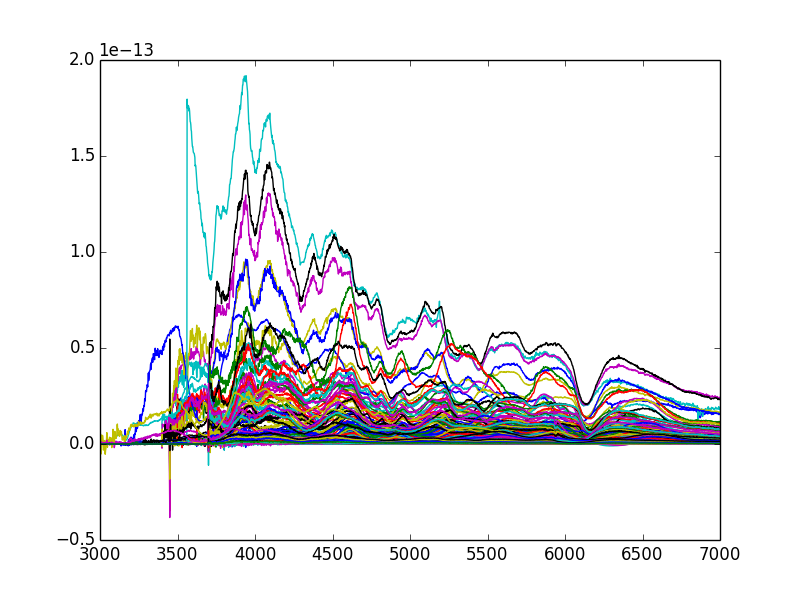
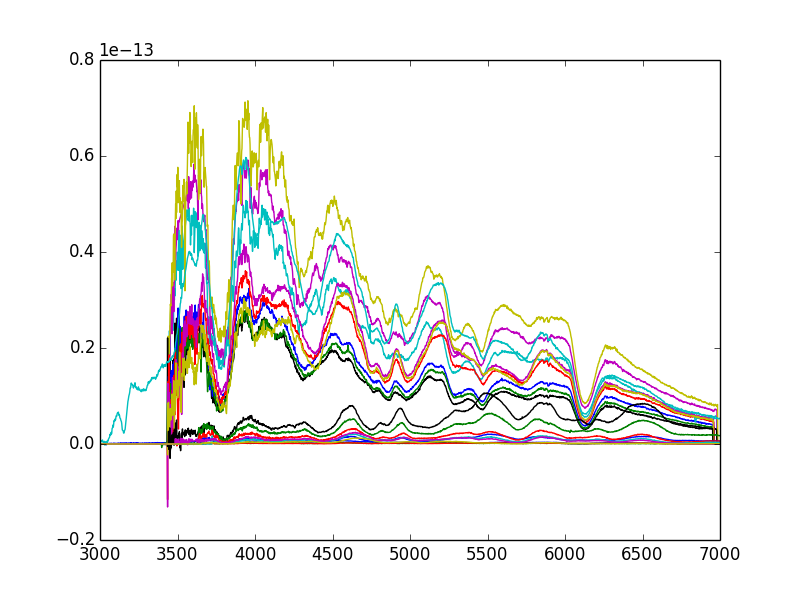
current version

diff --git a/personal/Yinghe/Week 5/prep.py b/personal/Yinghe/Week 5/prep.py
@@ -8,6 +8,8 @@ from astroquery.irsa_dust import IrsaDust
 import numpy as np
 import matplotlib.pyplot as plt
 import scipy.interpolate as inter
+from math import floor, ceil
+import sqlite3 as sq3
 
 
 def fm_unred(wave, flux, ebv, *args, **kwargs):
@@ -204,78 +206,6 @@ def fm_unred(wave, flux, ebv, *args, **kwargs):
         ExtCurve = curve - R_V
         return flux, ExtCurve
 
-
-#list of files
-spectra_files = glob.glob ('../../../data/cfa/*/*.flm')
-
-#holds spectra data (wavelength,flux,weight)
-spectra_data = []
-#holds file pathname
-file_path = []
-junk_data = []
-
-#number of spectra to modify
-num = 20
-
-#get data, pathnames
-for i in range(num):
-	try:
-        	spectra_data.append(np.loadtxt(spectra_files[i]))
-        	file_path.append(spectra_files[i][14:-4])
-		#print file_path
-             
-	except ValueError:
-		junk_data.append(spectra_files)
-
-#update num to number of good spectra files
-num = len(spectra_data)
-
-#table containing sn names, redshifts, etc.
-sn_parameters = np.genfromtxt('../../../data/cfa/cfasnIa_param.dat',dtype = None)
-
-#holds sn name
-sn = []
-#holds redshift value
-z = []
-
-#get relevent parameters needed for calculations
-for i in range(len(sn_parameters)):
-	sn.append(sn_parameters[i][0])
-	z.append(sn_parameters[i][1])
-
-"""
-NOTE:
-Use NED
-"""
-#deredden and deredshift the spectra
-for i in range(num):#go through selected spectra data
-	for j in range(len(sn)):#go through list of SN parameters
-		if sn[j] in file_path[i]:#SN with parameter matches the path
-			print "looking at SN",sn[j]
-			ext = IrsaDust.get_extinction_table("SN%s"%sn[j])
-			print ext
-			b = 0
-			v = 0
-			for k in range(len(ext)):
-				print "looking at",ext[k][0]
-				if "B" in ext[k][0]:
-					print "found b:",ext[k][3]
-					b = ext[k][3]
-				if "V" in ext[k][0]:
-					print "found v:",ext[k][3]
-					v = ext[k][3]
-				
-			print "\n",sn[j]			
-			print "starting flux:\n",spectra_data[i][:,1]
-			print "b-v value:",b,v
-			spectra_data[i][:,1] = fm_unred(spectra_data[i][:,0],spectra_data[i][:,1],b-v,R_V=3.1)
-			print "de-reddened flux:\n",spectra_data[i][:,1]
-			print "starting wavelength:\n",spectra_data[i][:,0]
-			spectra_data[i][:,0] /= (1+z[j])
-			print "z:",z[j]
-			print "de-red-shifted wavelength:\n",spectra_data[i][:,0]	
-
-
 # data interpolation
 # pixel size: every 2 As (subject to change)
 
@@ -304,16 +234,86 @@ def Interpo(spectra) :
     #newcol = Column(fitted_flux,name = 'Flux')  
     #new.add_column(newcol,index = None)
     return new
-    
-overall = []
+
+
+#list of files
+spectra_files = glob.glob ('../../../data/cfa/*/*.flm')
+
+#holds spectra data (wavelength,flux,weight)
+spectra_data = []
+#holds file pathname
+file_path = []
+junk_data = []
+
+#number of spectra to modify
+num = 2
+
+#get data, pathnames
 for i in range(num):
-    newdata = Interpo(spectra_data[i])
+	try:
+        	spectra_data.append(np.loadtxt(spectra_files[i]))
+        	file_path.append(spectra_files[i][14:-4])
+		#print file_path
+             
+	except ValueError:
+		junk_data.append(spectra_files)
+
+#update num to number of good spectra files
+num = len(spectra_data)
+
+#table containing sn names, redshifts, etc.
+sn_parameters = np.genfromtxt('../../../data/cfa/cfasnIa_param.dat',dtype = None)
+
+#holds sn name
+sn = []
+#holds redshift value
+z = []
+
+overall = []
+
+#get relevent parameters needed for calculations
+for i in range(len(sn_parameters)):
+	sn.append(sn_parameters[i][0])
+	z.append(sn_parameters[i][1])
+
+"""
+NOTE:
+Use NED
+"""
+#deredden and deredshift the spectra
+#Using the Fitzpatrick 2007 Model.
+for i in range(num):#go through selected spectra data
+	for j in range(len(sn)):#go through list of SN parameters
+		if sn[j] in file_path[i]:#SN with parameter matches the path
+			print "looking at SN",sn[j]
+			ext = IrsaDust.get_extinction_table("SN%s"%sn[j])
+#			print ext
+			b = 0
+			v = 0
+			for k in range(len(ext)):
+				print "looking at",ext[k][0]
+				if "B" in ext[k][0]:
+					print "found b:",ext[k][3]
+					b = ext[k][3]
+				if "V" in ext[k][0]:
+					print "found v:",ext[k][3]
+					v = ext[k][3]
+				
+			print "\n",sn[j]			
+			print "starting flux:\n",spectra_data[i][:,1]
+			print "b-v value:",b,v
+			spectra_data[i][:,1] = fm_unred(spectra_data[i][:,0],spectra_data[i][:,1],b-v,R_V=3.1)
+			print "de-reddened flux:\n",spectra_data[i][:,1]
+			print "starting wavelength:\n",spectra_data[i][:,0]
+			spectra_data[i][:,0] /= (1+z[j]) # deredshift
+			print "z:",z[j]
+			print "de-red-shifted wavelength:\n",spectra_data[i][:,0]	
+
+for i in range(num) :   
+    newdata = Interpo(spectra_data[i]) # Do the interpolation
     overall.append(newdata)
 #    print newdata
-    
-
-    
-    """ For the upcoming people's reference, use table 'newdata'. """
+        
 
     # output data into a file (just for testing, no need to implement)
 #    output = 'testdata/modified-%s.dat'%(spectra_files[i][27:-4])
